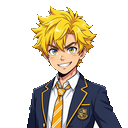
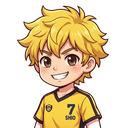
fix: キャラ画像の透過・リサイズ処理とストーリー勝利時の図鑑解放修正
- ポートレート画像: グリーンバック透過 + デスピル処理 + 高さ優先リサイズ (512x1024)
- VS画像: 同様の処理 (256x512)
- アイコン画像: ピンク背景のフラッドフィル透過 + リサイズ (128x128)
- カットイン画像: リサイズ (450x400)
- useResultProcessing: ストーリー勝利時は常に図鑑アンロック判定を実行
  （既クリアステージの再勝利時もアンロック漏れを救済）

diff --git a/src/features/air-hockey/presentation/hooks/useResultProcessing.ts b/src/features/air-hockey/presentation/hooks/useResultProcessing.ts
@@ -134,21 +134,21 @@ export function useResultProcessing({
     // ストーリーモード: クリア処理
     if (mode.gameMode === 'story' && mode.currentStage && isWin) {
       const current = loadStoryProgress();
+      let storyProgress = current;
       if (!current.clearedStages.includes(mode.currentStage.id)) {
-        const updated: StoryProgress = {
+        storyProgress = {
           clearedStages: [...current.clearedStages, mode.currentStage.id],
         };
-        saveStoryProgress(updated);
-        mode.setStoryProgress(updated);
-        const newUnlocks = dex.checkAndUnlock(updated);
-        setNewlyUnlockedCharacterName(
-          newUnlocks.length > 0
-            ? getDexEntryById(newUnlocks[0])?.profile.fullName
-            : undefined
-        );
-      } else {
-        setNewlyUnlockedCharacterName(undefined);
+        saveStoryProgress(storyProgress);
+        mode.setStoryProgress(storyProgress);
       }
+      // 勝利時は常にアンロック判定（既クリアステージの未解放キャラも救済）
+      const newUnlocks = dex.checkAndUnlock(storyProgress);
+      setNewlyUnlockedCharacterName(
+        newUnlocks.length > 0
+          ? getDexEntryById(newUnlocks[0])?.profile.fullName
+          : undefined
+      );
     } else {
       setNewlyUnlockedCharacterName(undefined);
     }
